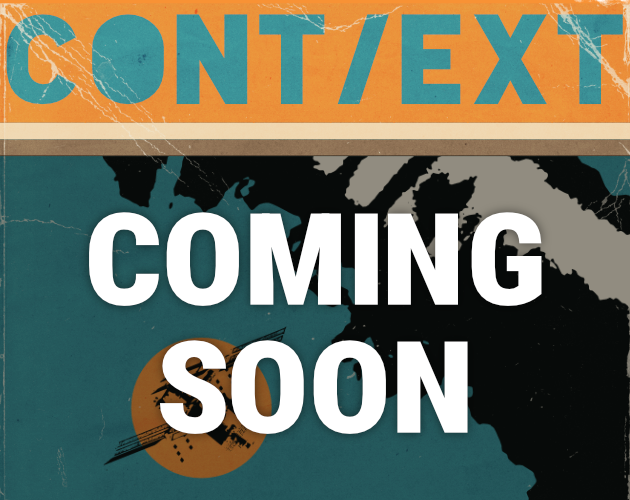
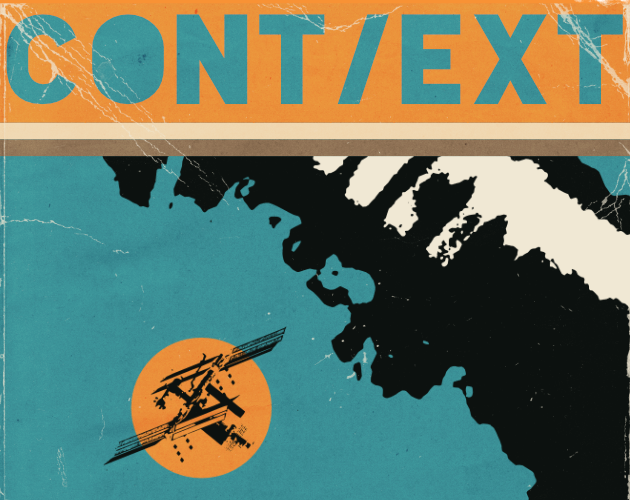
[wip] Add: CONT/EXT print and digital products

diff --git a/content/products/context/context.html b/content/products/context/context.html
@@ -1,21 +1,116 @@
 ---
 title: CONT/EXT
 tags:
-  - products
-  - posts
-  - wip
-  - featured
+- products
+- posts
+- wip
+- featured
 date: 2023-01-23
 layout: layouts/post.njk
 image: /products/context/context.png
-redirectTo: "https://grislyeye.itch.io/context"
 ---
+<aside class="purchase">
+
+  <my-product
+    id="print"
+    class="product"
+    product="CONT/EXT"
+    call="Buy Print + PDF"
+    currency="$"
+    price="8"
+    src="https://www.tuesdayknightgames.com/collections/mothership-featured-modules/products/context"
+    notes='["International shipping."]'
+    image="{% rawImageUrl page, "./context-print.png", 200 %}">
+  </my-product>
+
+  <hr>
+
+  <my-product id="print" class="product" product="CONT/EXT" call="Buy Print + PDF" currency="£" price="8"
+    src="https://buy.stripe.com/6oE17YbBs7Km3Bu6oo" notes='["+£2 postage.", "UK only."]' image="{% rawImageUrl page, "./context-print.png", 200 %}">
+  </my-product>
+
+  <hr>
+
+  <my-product id="digital" class="product" product="CONT/EXT" call="Buy PDF (Only)" currency="£" price="3"
+    src="https://grislyeye.itch.io/context" image="{% rawImageUrl page, "./context-digital.png", 200 %}">
+  </my-product>
+</aside>
+
 <figure class="illustration">
-  {% image "./context.png", "CONT/EXT Cover", [ "250px" ]  %}
+  {% image "./mothership-compat-logo.png", "This product is based on the Mothership® Sci-Fi Horror Role Playing Game", [ "200px" ]  %}
 </figure>
 
-<p><span class="product">CONT/EXT</span> is a <span class="title">Mothership</span> one-shot of existential horror. A britpunk nightmare set on the Lachesis: a failing, deep-space research station.</p>
+<p><span class="product">CONT/EXT</span> is a one-shot of cosmic horror for use with <span
+    class="title">Mothership</span>&#174;. A britpunk nightmare set aboard a failing research station.</p>
 
-<p>The Lachesis has gone radio silent, and it's up to your crew to investigate why, and recover as much valuable research as possible. (Rescue optional).</p>
+<p>You have been recruited by <span class="title">Continued Existence</span> (CONT/EXT for short). CONT/EXT&apos;s mission is
+  to ensure humanity can
+  survive extinction-level threats, such as gamma radiation bursts or advanced, hostile aliens.</p>
 
-<p><strong>Current Status:</strong> In playtest. Cover and writing are done, and I've started on some preliminary design and layout work.</p>
+<h3>Rescue is optional</h3>
+
+<p>You've been sent to investigate the deep-space research station, the <span class="title">Lachesis</span>. The station
+  has been reporting system malfunctions and the crew have gone radio silent. It's up to you to retrieve the valuable
+  research stored there. </p>
+
+<p>Includes:</p>
+
+<ul>
+  <li>12 pages of pure cosmic horror</li>
+  <li>a horrifying new threat</li>
+  <li>research station schematics</li>
+  <li>printable player map for table-top</li>
+  <li>colour player map and character tokens for VTT</li>
+</ul>
+
+<h3>Concepts</h3>
+
+<p>As part of my work writing <span class="product">CONT/EXT</span> I put together some blog posts that dive into the
+  conceptual underpinnings of the module. You can read them here:</p>
+
+<ul id="products" class="previews">
+  {% for post in collections.context | reverse | limit(4) %}
+  <li class="preview">
+    {% if (post.data.redirectTo) %}{% set url %}{{ post.data.redirectTo }}{% endset %}
+    {% else %}{% set url %}{{ post.url }}{% endset %}
+    {% endif %}
+
+    <a href="{{ url }}" title="{{ post.data.title }}">
+
+      {% if loop.index % 3 == 1 %}
+      {% set theme %} bloody {% endset %}
+      {% elif loop.index % 2 == 1 %}
+      {% set theme %} light {% endset %}
+      {% else %}
+      {% set theme %} dark {% endset %}
+      {% endif %}
+
+      <my-preview class="{{ post.data.tags.join(' ') }} {{ theme }} featured" {% if post.data.image %} {% set
+        imagePath %}.{{ post.inputPath }}/{{ post.data.image }}{% endset %}
+        background="{% rawImageUrl post, post.data.image, 300 %}" {% endif %} preload>
+        <span slot="title">{{ post.data.title }}</span>
+      </my-preview>
+
+    </a>
+  </li>
+  {% endfor %}
+</ul>
+
+<p class="legal">This product is based on the Mothership® Sci-Fi Horror Role Playing Game, published by Tuesday Knight
+  Games. This product is published under license. MOTHERSHIP® is a registered trademark of Tuesday Knight Games. All
+  rights reserved. For additional information, visit www.tuesdayknightgames.com or contact
+  contact@tuesdayknightgames.com.</p>
+
+<script>
+  const timezone =
+    Intl.DateTimeFormat()
+      .resolvedOptions()
+      .timeZone
+
+  const shipping = timezone && timezone === "Europe/Londons"
+  const buyPrintButton = document.getElementById("buy-print")
+
+  if (!shipping && buyPrintButton) {
+    buyPrintButton.classList.add("disabled")
+  }
+</script>

diff --git a/_components/my-button.js b/_components/my-button.js
@@ -1,0 +1,34 @@
+import { LitElement, html, css } from 'lit';
+
+class MyButton extends LitElement {
+  static styles = css`
+    ::slotted(button) {
+      font-family: var(--font-family);
+      height: 38px;
+      padding: 0 30px;
+      color: white;
+      background-color: red;
+      font-size: 14px;
+      font-style: normal;
+      font-weight: bold;
+      border-radius: 4px;
+      border: 1px solid #bbb;
+      cursor: pointer;
+      box-sizing: border-box;
+      line-height: 38px;
+      text-transform: uppercase;
+      text-decoration: none;
+      white-space: nowrap;
+      text-align: center;
+    }`;
+
+  // eslint-disable-next-line class-methods-use-this
+  render() {
+    return html`
+      <div class="button">
+        <slot></slot>
+      </div>`;
+  }
+}
+
+customElements.define('my-button', MyButton);

diff --git a/_components/my-product.js b/_components/my-product.js
@@ -1,4 +1,5 @@
 import { LitElement, html, css } from 'lit';
+import './my-button.js';
 
 class MyProduct extends LitElement {
   static styles = css`
@@ -106,7 +107,9 @@ class MyProduct extends LitElement {
 
         <div class="call button">
           <a href="${ this.src }">
-            <button src="${ this.src }" disabled="${ this.disabled }">${ this.call }</button>
+            <my-button>
+              <button src="${ this.src }" ?disabled="${ this.disabled }">${ this.call }</button>
+            </my-button>
           </a>
         </div>
       </div>

diff --git a/eleventy.config.js b/eleventy.config.js
@@ -43,7 +43,8 @@ export default async (eleventyConfig) => {
       '_components/my-section.js',
       '_components/my-page.js',
       '_components/my-product.js',
-      '_components/my-shares.js'
+      '_components/my-shares.js',
+      '_components/my-button.js'
     ]
   });
 

diff --git a/public/css/index.css b/public/css/index.css
@@ -128,6 +128,14 @@ ul.previews {
   padding: 0;
 }
 
+#post .previews a {
+  background-image: none;
+}
+
+#post .previews a:hover {
+  background-color: transparent;
+}
+
 my-preview {
   display: inline-block;
   width: 100%;

diff --git a/_components/my-preview.js b/_components/my-preview.js
@@ -18,6 +18,8 @@ class MyPreview extends LitElement {
       background-size: cover;
       background-position: top;
       border-radius: 6px;
+
+      line-height: 1;
     }
 
     header {

diff --git a/public/css/legal.css b/public/css/legal.css
@@ -1,0 +1,5 @@
+p.legal {
+  margin-top: 2em;
+  font-size: smaller;
+  color: gray;
+}

diff --git a/content/blog/alien-as-outside-context-entity-2/alien-as-outside-context-entity-2.md b/content/blog/alien-as-outside-context-entity-2/alien-as-outside-context-entity-2.md
@@ -2,6 +2,7 @@
 title: Alien as outside context entity Part 2
 tags:
   - posts
+  - context
 date: 2024-07-16
 layout: layouts/post.njk
 image: /blog/alien-as-outside-context-entity-2/jonesy.png
@@ -88,7 +89,7 @@ Instead, we have to see it through the eyes of those first cinemagoers in 1979, 
 
 And the creature is not just physically uncategorisable, it portrays truly alien intelligence as well.
 
-The xenomorph is not an animal, but it also lacks personhood. It acts with intent, can even outwit the crew of the *Nostromo*, but appears to lack any other imperative than to kill or breed. Certainly, if it spoke we could not understand it, any more than the lion, but I know which I'd rather be stuck on a ship with. We're relatively safe from the lion as long as it is satiated, but the xenomorph clearly transcends any mere predator. It always hungers, always acts with immediate and deadly hostility. Does it hate us? Hate doesn't seem to fit, feels too much like transference, but it's clearly going beyond any survival instinct we would understand. 
+The xenomorph is not an animal, but it also lacks personhood. It acts with intent, can even outwit the crew of the *Nostromo*, but appears to lack any other imperative than to kill or breed. Certainly, if it spoke we could not understand it, any more than the lion, but I know which I'd rather be stuck on a ship with. We're relatively safe from the lion as long as it is satiated, but the xenomorph clearly transcends any mere predator. It always hungers, always acts with immediate and deadly hostility. Does it hate us? Hate doesn't seem to fit, feels too much like transference, but it's clearly going beyond any survival instinct we would understand.
 
 Is it intelligent? It's unclear. It seems on the cusp of intelligence. You get the sense humans are just in the way of whatever is motivating it. It's only intersection with us is the bothersome matter of flesh, and that feels like a stopover for its true intent, whatever that is.
 

diff --git a/content/blog/on-remembrance-of-the-daleks/on-remembrance-of-the-daleks.md b/content/blog/on-remembrance-of-the-daleks/on-remembrance-of-the-daleks.md
@@ -2,6 +2,7 @@
 title: On Remembrance of the Daleks
 tags:
   - posts
+  - context
 date: 2024-04-02
 layout: layouts/post.njk
 image: /blog/on-remembrance-of-the-daleks/special-weapons-dalek.png
@@ -107,4 +108,3 @@ _Remembrance_ plays off the contrast between drab locale and high-concept sci-fi
 The Daleks fight each other as much through their human proxies as they do directly, which lends an air of quiet desperation. Men, women and children (and I'm counting the Doctor's allies in this) conscripted into horrifying, alien agendas they can't possibly satisfy.
 
 It all works to ground the high-concept elements. I'm not going to say it makes it any more believable but, for the author of this article, it certainly offers some interesting alternatives to the aspirational elements of contemporary science fiction, in terms of setting, tone and characters.
-

diff --git a/content/blog/alien-as-outside-context-entity/alien-as-outside-context-entity.md b/content/blog/alien-as-outside-context-entity/alien-as-outside-context-entity.md
@@ -2,6 +2,7 @@
 title: Alien as outside context entity
 tags:
   - posts
+  - context
 date: 2024-07-04
 layout: layouts/post.njk
 image: /blog/alien-as-outside-context-entity/captain-kirk.jpg

diff --git a/content/blog/shiftless-horror/shiftless-horror.md b/content/blog/shiftless-horror/shiftless-horror.md
@@ -2,6 +2,7 @@
 title: The Shiftless Horror of Mothership
 tags:
   - posts
+  - context
 date: 2024-05-07
 layout: layouts/post.njk
 image: /blog/shiftless-horror/alien-cast.jpg
